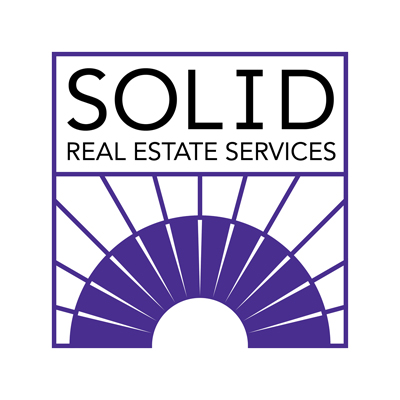
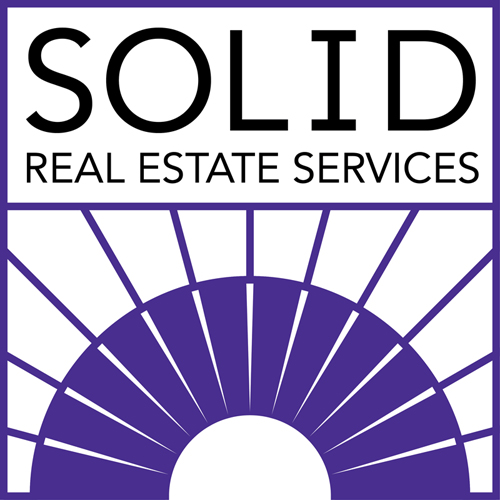
esasda

diff --git a/SOLID.html b/SOLID.html
@@ -102,8 +102,9 @@
 				<div class="row">
 					<div class="col-md-12" align="middle">
 					<figcaption>New square logo design</figcaption>
+					<figcaption>Client requested a new logo in a square format, following brand guidelines. A problem with the old logo was that 'SOLID' was being read on for-sale signs as 'SOLD'. To help the legibility, the 'I' was given a serif and rebalanced to be more clear.</figcaption>
 						<figure><img src="images/full/SOLID.jpg"class="img-responsive"></figure>
-						<figcaption>Client requested a square format and to fix the issue of 'SOLID' being read as 'SOLD'. To help the legibility, the 'I' was given a serif and rebalanced to be more clear.</figcaption>
+						
 						
 					</div>
 					<br> </br>
